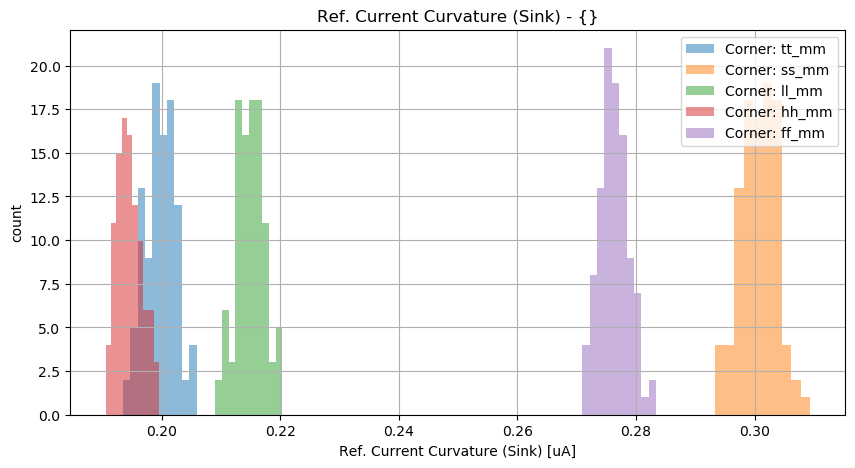
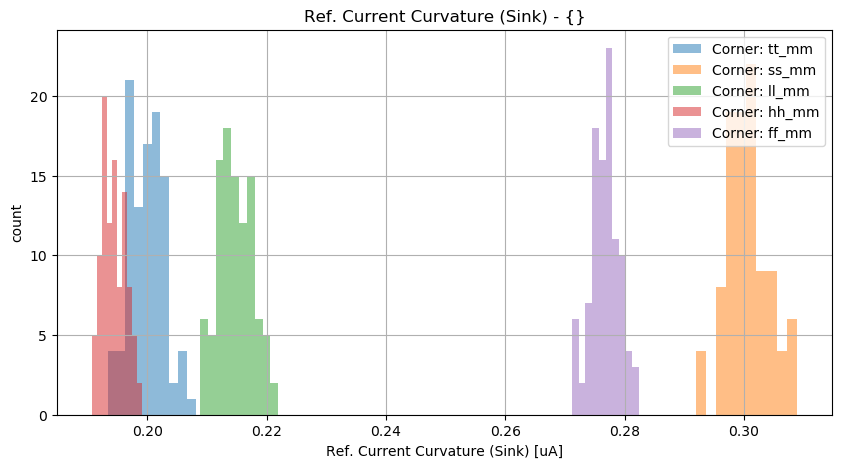
Jenkins update

diff --git a/VTHREF_TB/combinedReport.md b/VTHREF_TB/combinedReport.md
@@ -16,7 +16,7 @@
 | Test Variable | Spec. Min | Spec. Max | Sim. Min | Sim. Max | Unit | Status | Comment |
 | ------------- | --------- | --------- | -------- | -------- | ---- | ------ | ------- |
 | Sink Ref. Current Curvature | 0.0 | 1.0 | 0.191 | 0.309 | uA | <svg height="20" width="150"><polyline points="0.0,10,150.0,10" style="stroke:darkgray;stroke-width:15" /><polyline points="28.650000000000002,10,46.35,10" style="stroke:darkgreen;stroke-width:6" /></svg>&nbsp;&nbsp;:ok: |  |
-| Source Ref. Current Curvature | 0.0 | 1.0 | 0.193 | 0.31 | uA | <svg height="20" width="150"><polyline points="0.0,10,150.0,10" style="stroke:darkgray;stroke-width:15" /><polyline points="28.95,10,46.5,10" style="stroke:darkgreen;stroke-width:6" /></svg>&nbsp;&nbsp;:ok: |  |
+| Source Ref. Current Curvature | 0.0 | 1.0 | 0.194 | 0.305 | uA | <svg height="20" width="150"><polyline points="0.0,10,150.0,10" style="stroke:darkgray;stroke-width:15" /><polyline points="29.1,10,45.75,10" style="stroke:darkgreen;stroke-width:6" /></svg>&nbsp;&nbsp;:ok: |  |
 > total: 2, passed: 2 (100.0%), ignored (NaN): 0 (0.0%), ignored (nodata): 0 (0.0%), ignored (out-of-scope): 0 (0.0%), failed: 0 (0.0%)<br>
 
 <br>

diff --git a/VTHREF_TB/specReport.md b/VTHREF_TB/specReport.md
@@ -14,7 +14,7 @@
 | Test Variable | Spec. Min | Spec. Max | Sim. Min | Sim. Max | Unit | Status | Comment |
 | ------------- | --------- | --------- | -------- | -------- | ---- | ------ | ------- |
 | Sink Ref. Current Curvature | 0.0 | 1.0 | 0.191 | 0.309 | uA | <svg height="20" width="150"><polyline points="0.0,10,150.0,10" style="stroke:darkgray;stroke-width:15" /><polyline points="28.650000000000002,10,46.35,10" style="stroke:darkgreen;stroke-width:6" /></svg>&nbsp;&nbsp;:ok: |  |
-| Source Ref. Current Curvature | 0.0 | 1.0 | 0.193 | 0.31 | uA | <svg height="20" width="150"><polyline points="0.0,10,150.0,10" style="stroke:darkgray;stroke-width:15" /><polyline points="28.95,10,46.5,10" style="stroke:darkgreen;stroke-width:6" /></svg>&nbsp;&nbsp;:ok: |  |
+| Source Ref. Current Curvature | 0.0 | 1.0 | 0.194 | 0.305 | uA | <svg height="20" width="150"><polyline points="0.0,10,150.0,10" style="stroke:darkgray;stroke-width:15" /><polyline points="29.1,10,45.75,10" style="stroke:darkgreen;stroke-width:6" /></svg>&nbsp;&nbsp;:ok: |  |
 > total: 2, passed: 2 (100.0%), ignored (NaN): 0 (0.0%), ignored (nodata): 0 (0.0%), ignored (out-of-scope): 0 (0.0%), failed: 0 (0.0%)<br>
 
 <br>
